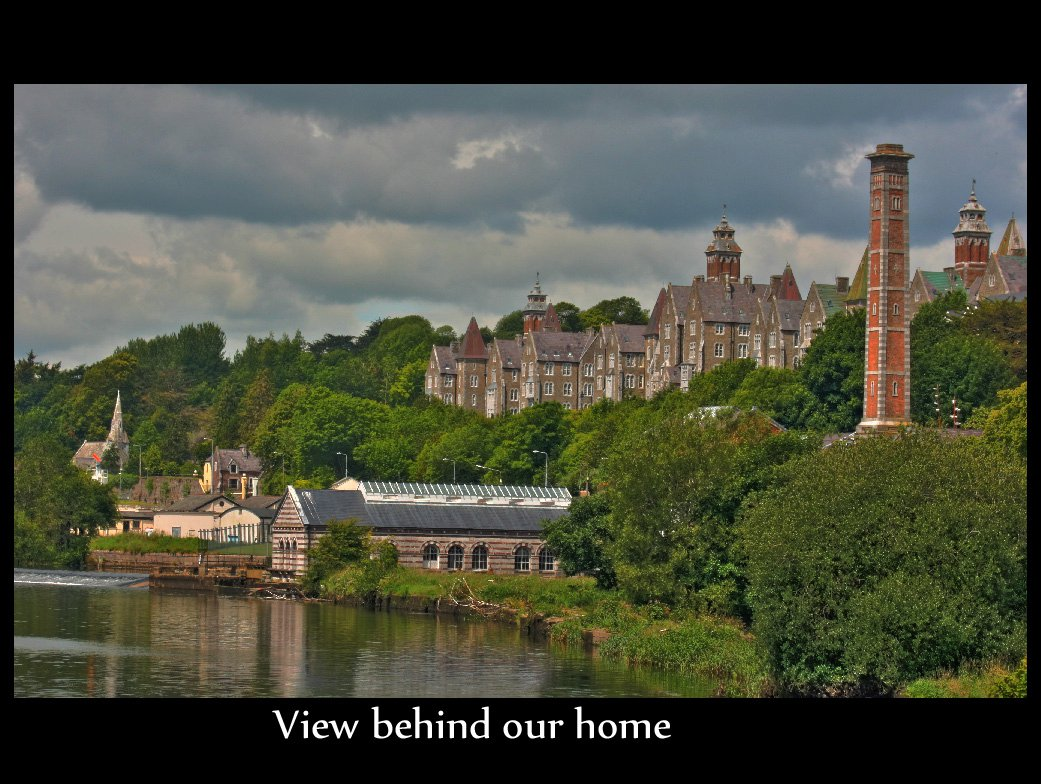
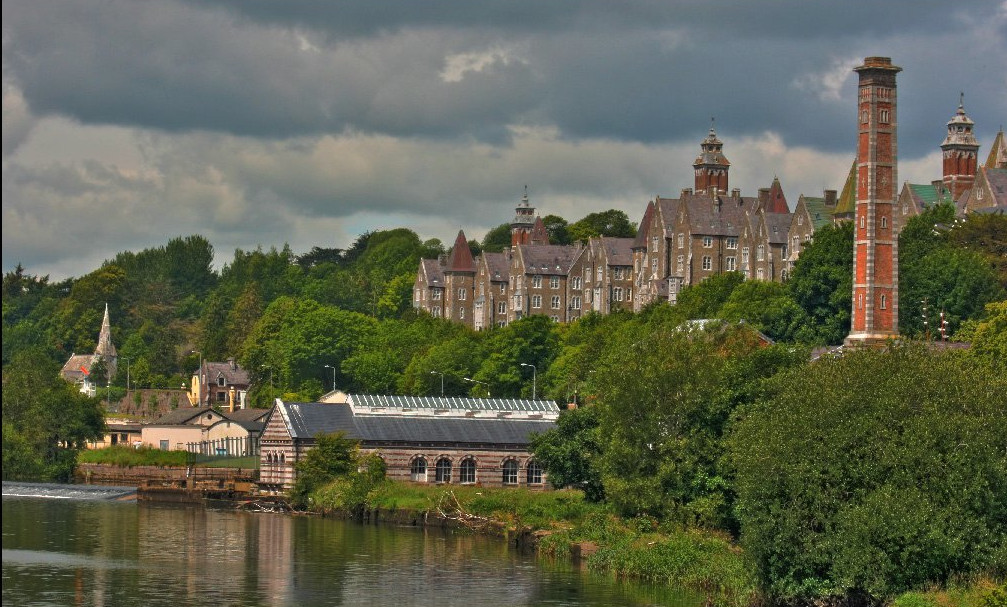
upating webpage

diff --git a/travel.html b/travel.html
@@ -83,8 +83,8 @@
             <div class="caption"><b>[Oct'16, Dubai]</b> Deep in thought as the jet and the sunset are engaged in a mesmerizing dance, making me a luckiest passenger on earth. </div>
         </div>
         <div class="gallery-item">
-            <img src="images/Frendicoes.jpg" alt="Image 12">
-            <div class="caption"><b>[Frendicoes, Delhi]</b> Frendicoes Animal Shelter in Delhi is a haven for rescued animals, offering them safety, care, and a second chance at life. Now shouldn't we be thinking of a more humane society for all living beings. </div>
+            <img src="images/Cork.jpg" alt="Image 12">
+            <div class="caption"><b>[Cork, Ireland'12]</b> View behind our home. </div>
         </div>
         <div class="gallery-item">
             <img src="images/PonteVechhio.jpg" alt="Image 13">
@@ -95,7 +95,7 @@
             <div class="caption"><b>[Frendicoes, Delhi]</b> Frendicoes Animal Shelter in Delhi is a haven for rescued animals, offering them safety, care, and a second chance at life. Now shouldn't we be thinking of a more humane society for all living beings. </div>
         </div>
         <div class="gallery-item">
-            <img src="images/Frendicoes.jpg" alt="Image 15">
+            <img src="images/Korea.jpg" alt="Image 15">
             <div class="caption"><b>[Oct'19, Korea]</b> Da-Seon (Tea Ceremony). It is one of the meditations to practice of mindfulness and concentration through brewing and drinking tea, Korea </div>
         </div>
         <div class="gallery-item">
@@ -110,6 +110,11 @@
             <div class="gallery-item">
             <img src="images\LombardStreetSFOAshramVisit.jpg" alt="Image 18">
             <div class="caption"> <b>[Mar'17: San Francisco]</b> On the way to Vedanta Society of Northern California, SFO, USA</div>
+        </div>
+                </div>
+            <div class="gallery-item">
+            <img src="images\Sarita_n_I.jpg" alt="Image 19">
+            <div class="caption"> <b>[Oct'17: France]</b> Sarita and I</div>
         </div>
     </div>
 </body>
